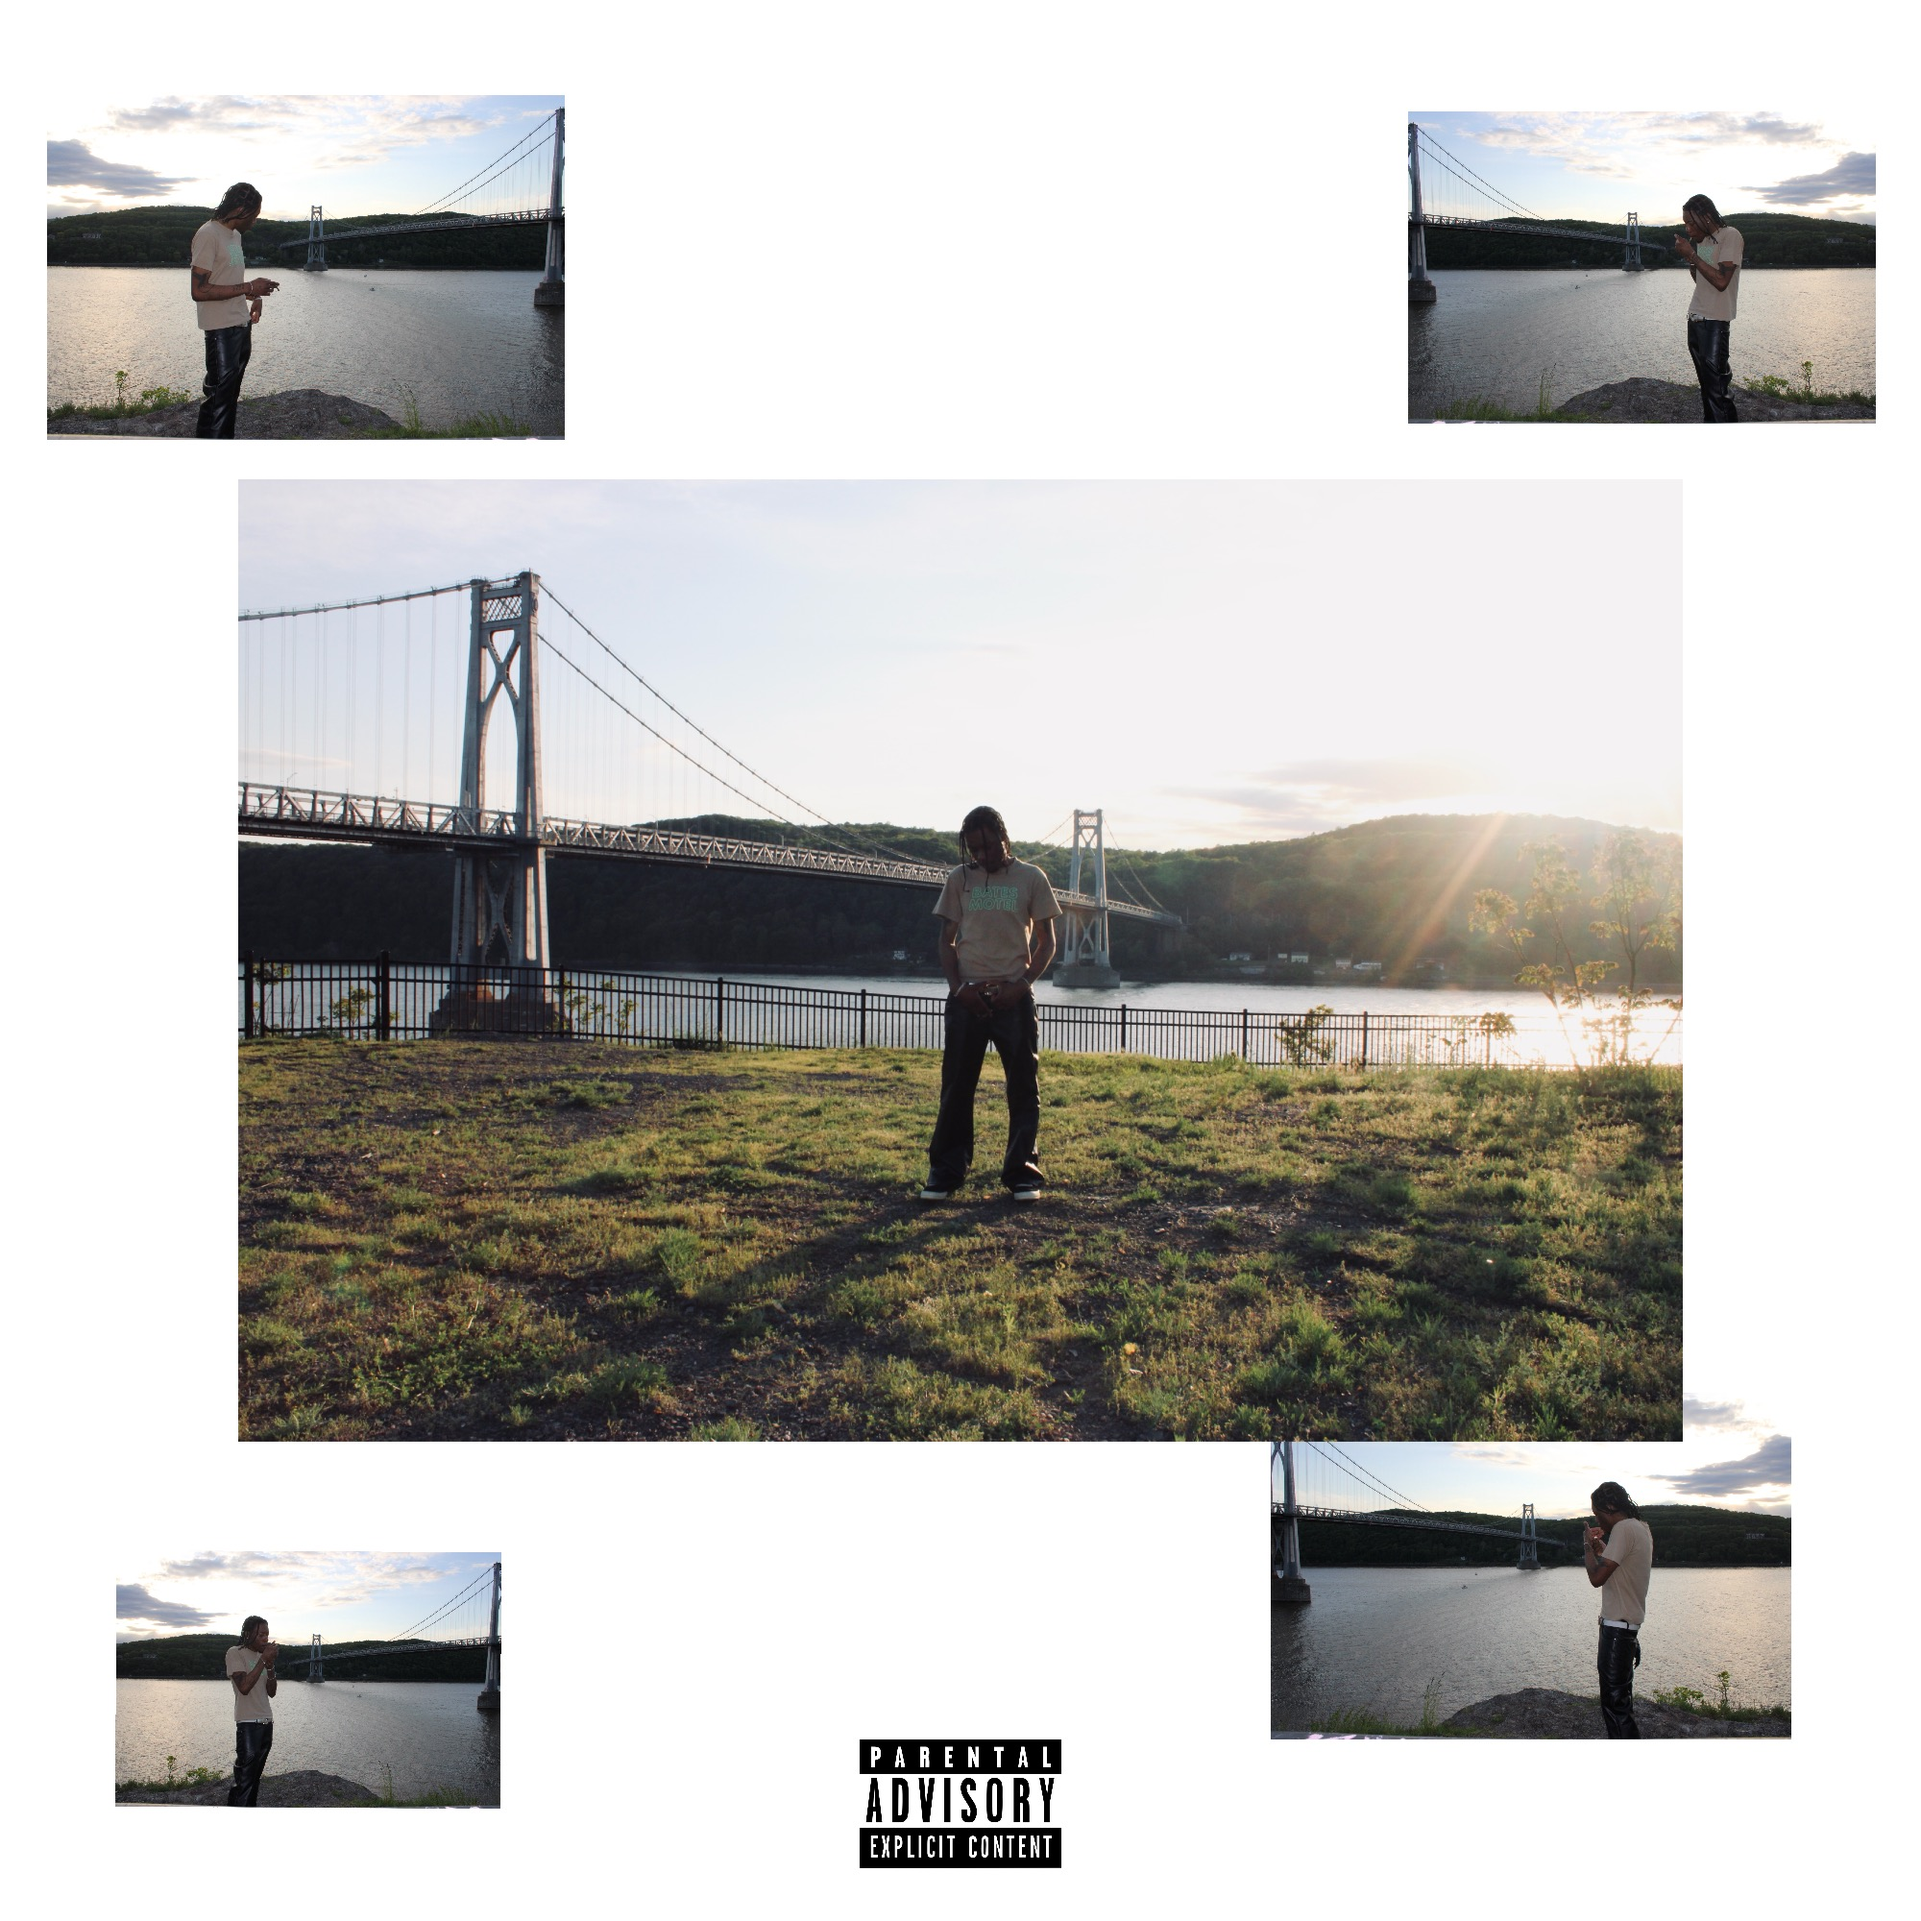
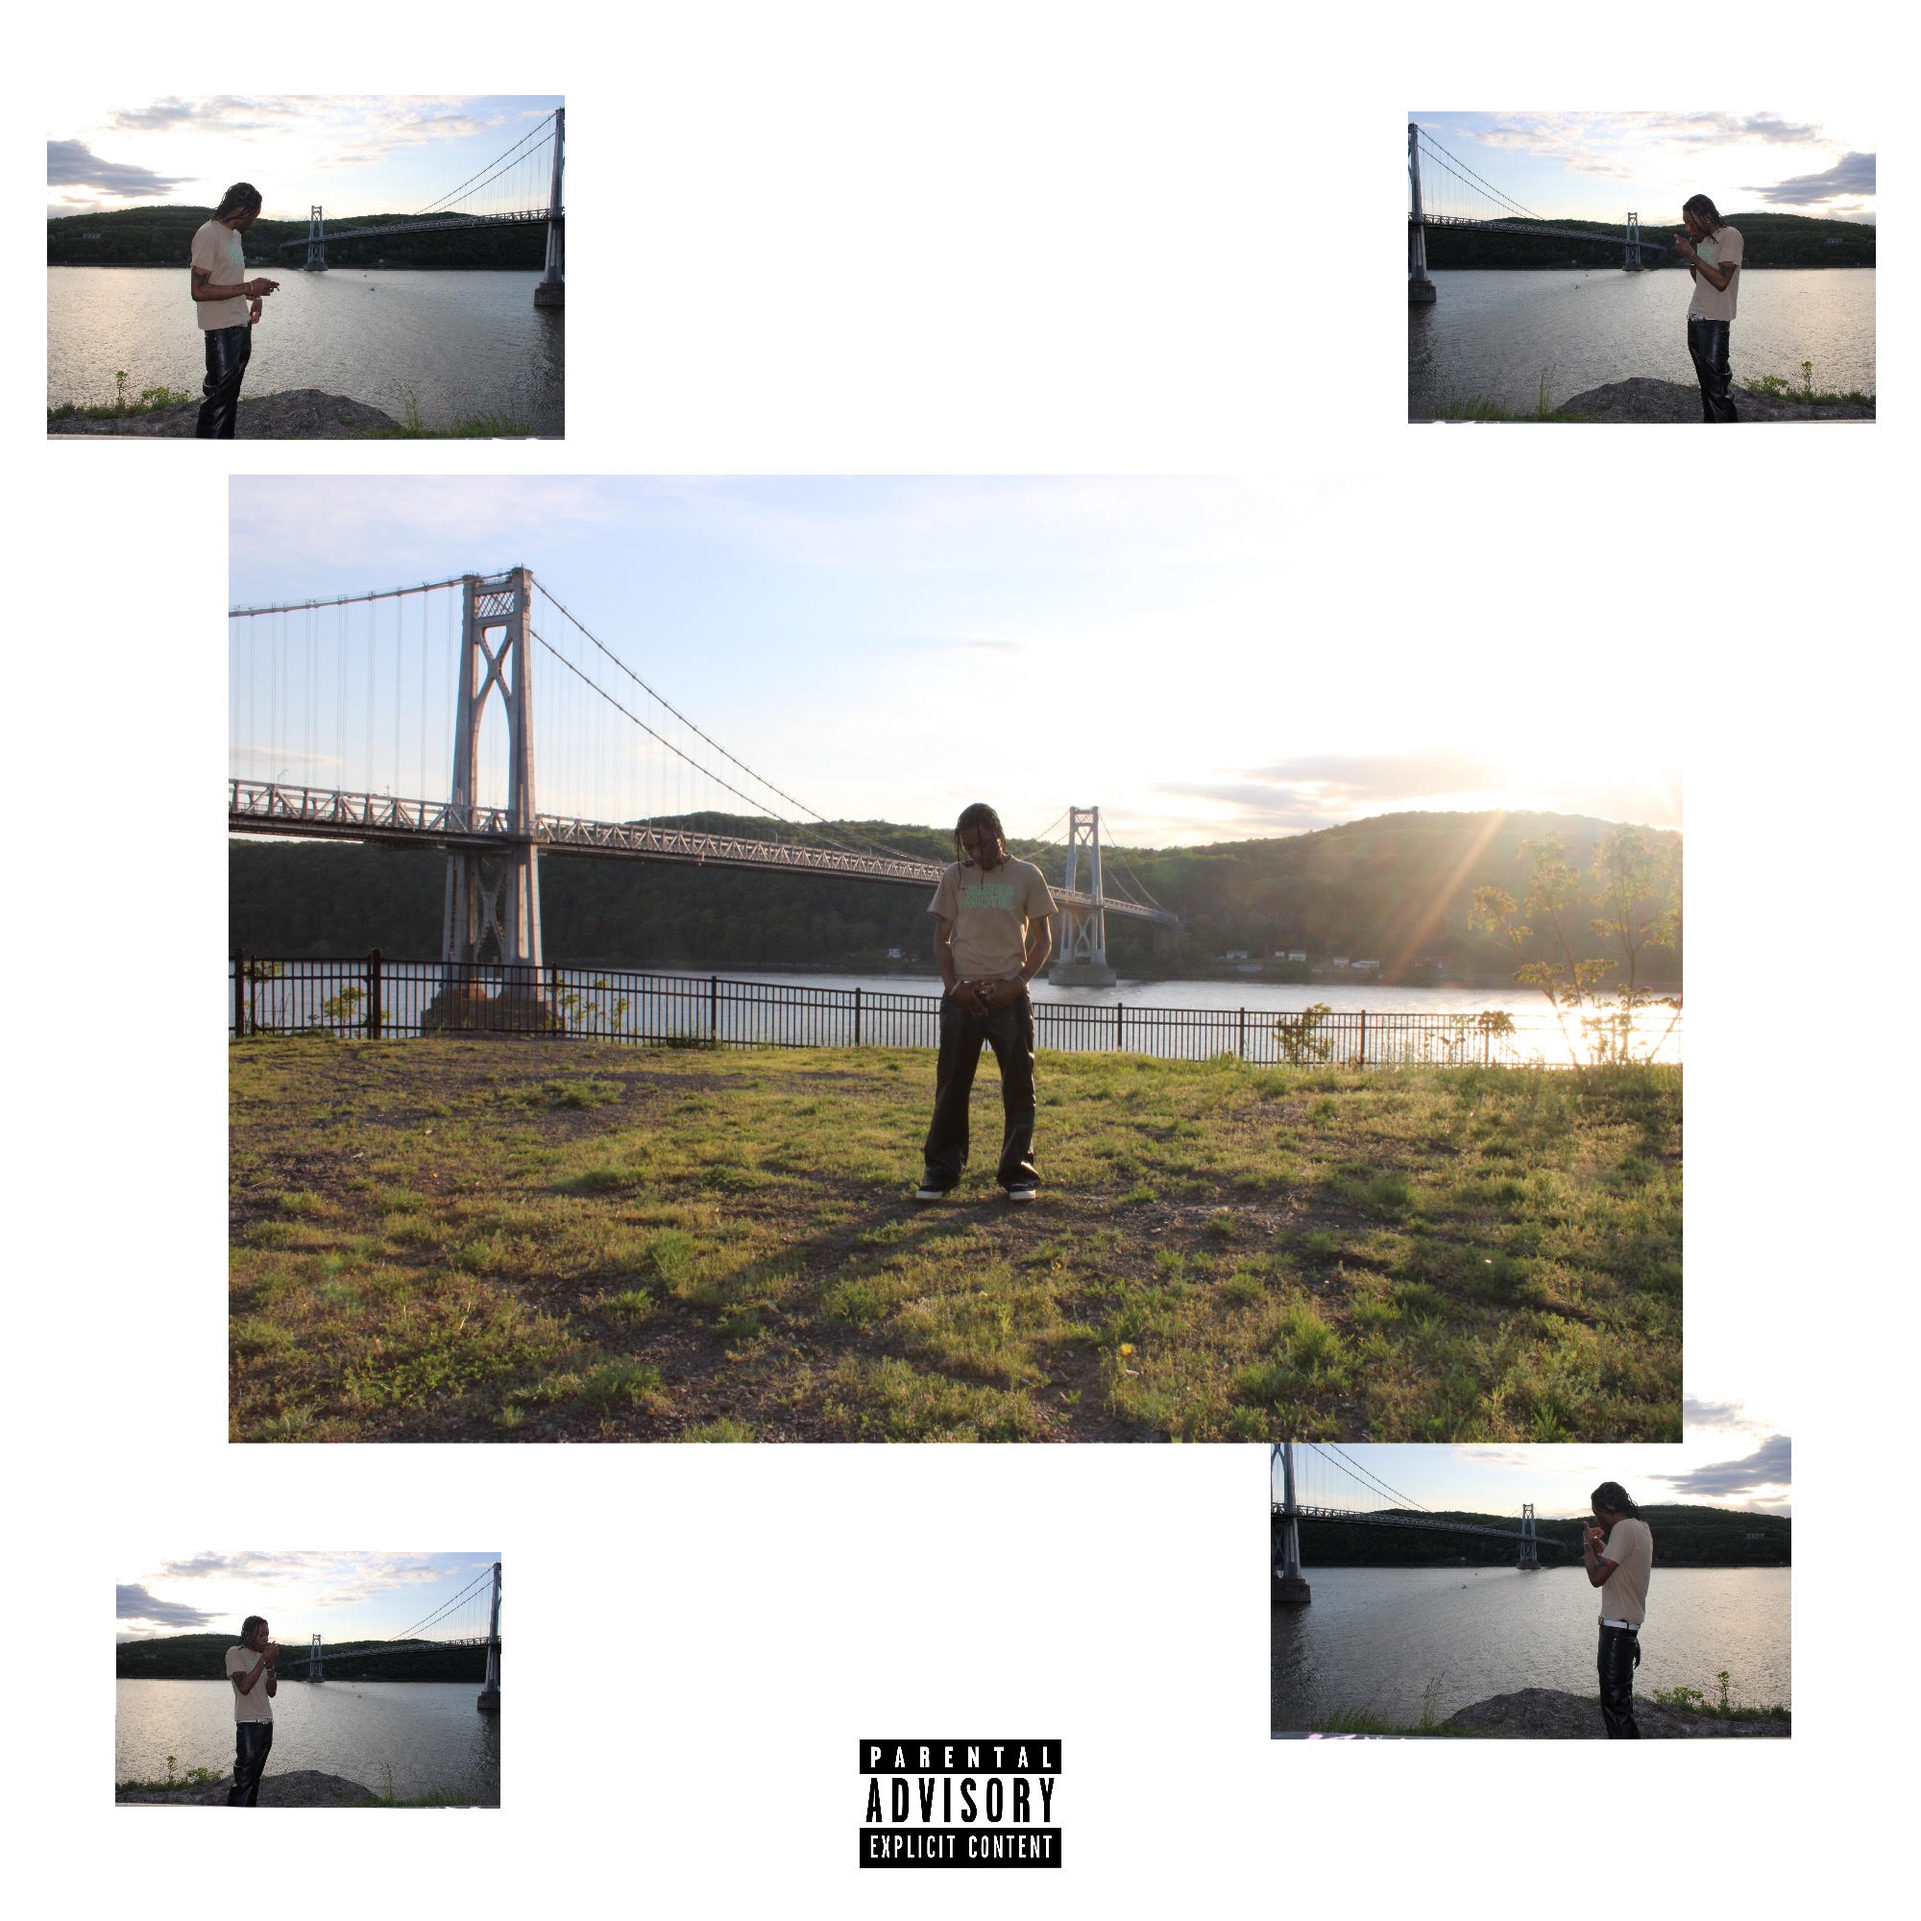
Add files via upload

Changed region(s): [[0.093, 0.248, 0.868, 0.775], [0.806, 0.434, 0.868, 0.465]]

diff --git a/index.html b/index.html
@@ -190,7 +190,7 @@
     <a href="https://x.com/stellarickk" class="social-btn"><svg viewBox="0 0 24 24"><path d="M18.244 2.25h3.308l-7.227 8.26 8.502 11.24H16.17l-4.714-6.231-5.401 6.231H2.744l7.73-8.835L1.254 2.25H8.08l4.253 5.622zm-1.161 17.52h1.833L7.084 4.126H5.117z"/></svg>Twitter (X)</a>
     <a href="https://www.tiktok.com/@stellarickk" class="social-btn"><svg viewBox="0 0 24 24"><path d="M12.525.02c1.31-.02 2.61-.01 3.91-.02.08 1.53.63 3.09 1.75 4.17 1.12 1.11 2.7 1.62 4.24 1.79v4.03c-1.44-.05-2.89-.35-4.2-.97-.57-.26-1.1-.59-1.62-.93-.01 2.92.01 5.84-.02 8.75-.08 1.4-.54 2.79-1.35 3.94-1.31 1.92-3.58 3.17-5.91 3.21-1.43.08-2.86-.31-4.08-1.03-2.02-1.19-3.44-3.37-3.65-5.71-.02-.5-.03-1-.01-1.49.18-1.9 1.12-3.72 2.58-4.96 1.66-1.44 3.98-2.13 6.15-1.72.02 1.48-.04 2.96-.04 4.44-.99-.32-2.15-.23-3.02.37-.63.41-1.11 1.04-1.36 1.75-.21.51-.15 1.07-.14 1.61.24 1.64 1.82 3.02 3.5 2.87 1.12-.01 2.19-.66 2.77-1.61.19-.33.4-.67.41-1.06.1-1.79.06-3.57.07-5.36.01-4.03-.01-8.05.02-12.07z"/></svg>TikTok</a>
     <a href="https://on.soundcloud.com/vcmRpNbFYF1Usnpfn5" class="social-btn"><svg viewBox="0 0 24 24"><path d="M1.175 12.225c-.057 0-.112.007-.168.018L0 12.225c0-3.416 2.784-6.2 6.2-6.2 1.272 0 2.45.384 3.426 1.04.494-3.95 3.859-7.01 7.95-7.01 4.418 0 8 3.582 8 8 0 .154-.004.306-.013.459H24c0 2.652-2.152 4.8-4.8 4.8H1.175zm0 0"/></svg>SoundCloud</a>
-    <a href="https://music.apple.com/us/album/is-it-open-single/6804129567" class="social-btn" style="grid-column:span 1" target="_blank" rel="noopener"><svg viewBox="0 0 24 24"><path d="M12 0C5.4 0 0 5.4 0 12s5.4 12 12 12 12-5.4 12-12S18.66 0 12 0zm5.521 17.34c-.24.359-.66.48-1.021.24-2.82-1.74-6.36-2.101-10.561-1.141-.418.122-.779-.179-.899-.539-.12-.421.18-.78.54-.9 4.56-1.021 8.52-.6 11.64 1.32.42.18.479.659.301 1.02zm1.44-3.3c-.301.42-.841.6-1.262.3-3.239-1.98-8.159-2.58-11.939-1.38-.479.12-1.02-.12-1.14-.6-.12-.48.12-1.021.6-1.141C9.6 9.9 15 10.561 18.72 12.84c.361.181.54.78.241 1.2zm.12-3.36C15.24 8.4 8.82 8.16 5.16 9.301c-.6.179-1.2-.181-1.38-.721-.18-.601.18-1.2.72-1.381 4.26-1.26 11.28-1.02 15.721 1.621.539.3.719 1.02.419 1.56-.299.421-1.02.599-1.559.3z"/></svg>Apple Music</a>
+    <a href="https://music.apple.com/us/album/is-it-open-single/6804129567" class="social-btn dsp-btn" target="_blank" rel="noopener">DSPs — Apple Music — Spotify — More</a>
   </div>
 </section>
 
